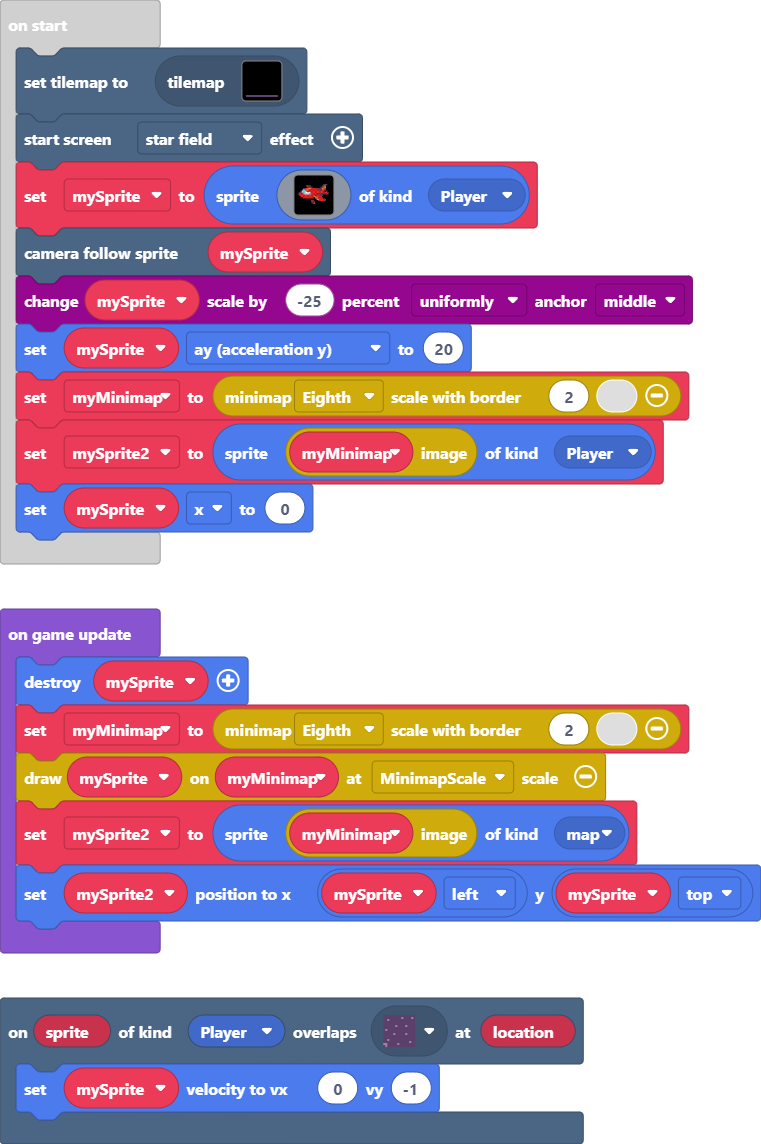
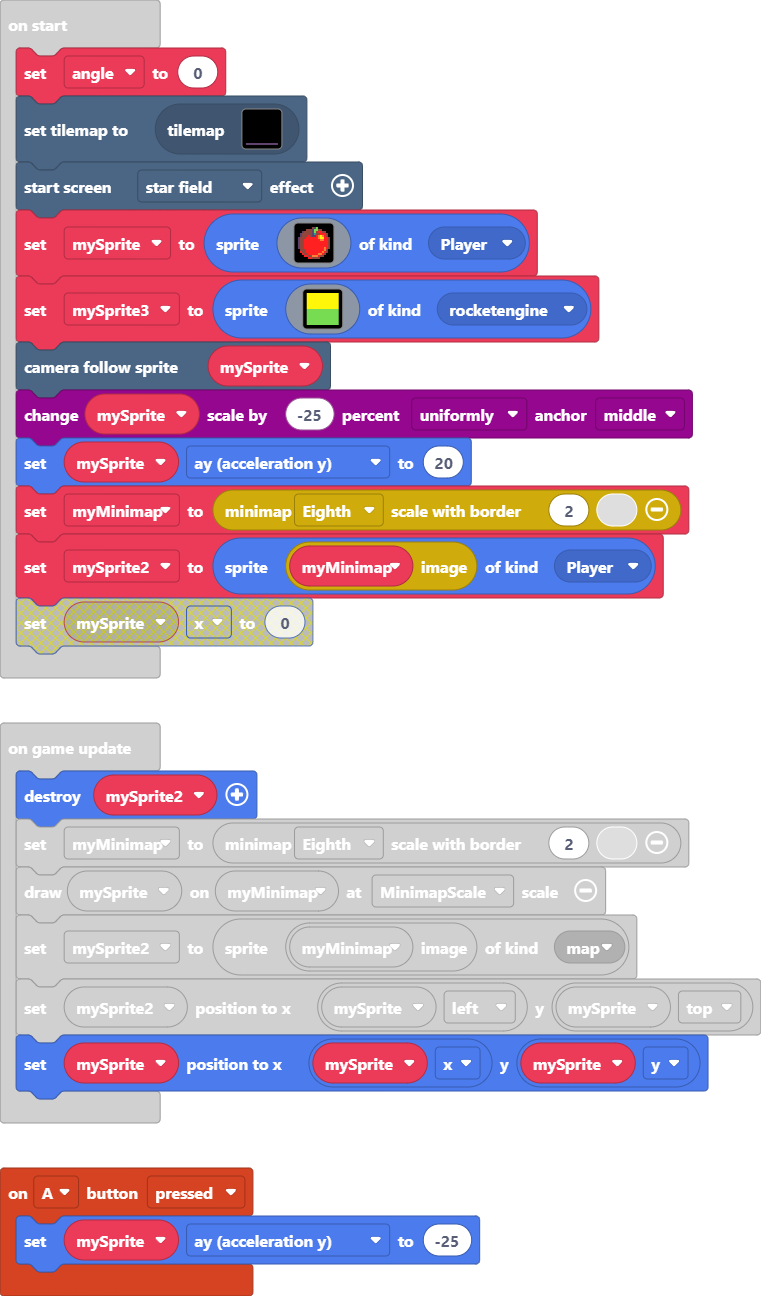
working on map and engine

diff --git a/main.ts b/main.ts
@@ -1,40 +1,49 @@
 namespace SpriteKind {
     export const map = SpriteKind.create()
+    export const rocketengine = SpriteKind.create()
 }
 scene.onOverlapTile(SpriteKind.Player, sprites.dungeon.darkGroundNorthEast1, function (sprite, location) {
     mySprite.setVelocity(0, -1)
 })
+controller.A.onEvent(ControllerButtonEvent.Pressed, function () {
+    mySprite.ay = -25
+})
 let mySprite: Sprite = null
+let angle = 0
 tiles.setCurrentTilemap(tilemap`level1`)
 effects.starField.startScreenEffect()
 mySprite = sprites.create(img`
-    ....ffffff.........ccc..
-    ....ff22ccf.......cc4f..
-    .....ffccccfff...cc44f..
-    ....cc24442222cccc442f..
-    ...c9b4422222222cc422f..
-    ..c999b2222222222222fc..
-    .c2b99111b222222222c22c.
-    c222b111992222ccccccc22f
-    f222222222222c222ccfffff
-    .f2222222222442222f.....
-    ..ff2222222cf442222f....
-    ....ffffffffff442222c...
-    .........f2cfffc2222c...
-    .........fcc2ffffffff...
-    ..........fc2ffff.......
-    ...........fffff........
+    . . . . . . . e c 7 . . . . . . 
+    . . . . e e e c 7 7 e e . . . . 
+    . . c e e e e c 7 e 2 2 e e . . 
+    . c e e e e e c 6 e e 2 2 2 e . 
+    . c e e e 2 e c c 2 4 5 4 2 e . 
+    c e e e 2 2 2 2 2 2 4 5 5 2 2 e 
+    c e e 2 2 2 2 2 2 2 2 4 4 2 2 e 
+    c e e 2 2 2 2 2 2 2 2 2 2 2 2 e 
+    c e e 2 2 2 2 2 2 2 2 2 2 2 2 e 
+    c e e 2 2 2 2 2 2 2 2 2 2 2 2 e 
+    c e e 2 2 2 2 2 2 2 2 2 2 4 2 e 
+    . e e e 2 2 2 2 2 2 2 2 2 4 e . 
+    . 2 e e 2 2 2 2 2 2 2 2 4 2 e . 
+    . . 2 e e 2 2 2 2 2 4 4 2 e . . 
+    . . . 2 2 e e 4 4 4 2 e e . . . 
+    . . . . . 2 2 e e e e . . . . . 
     `, SpriteKind.Player)
+let mySprite3 = sprites.create(img`
+    5 5 
+    7 7 
+    `, SpriteKind.rocketengine)
 scene.cameraFollowSprite(mySprite)
 scaling.scaleByPercent(mySprite, -25, ScaleDirection.Uniformly, ScaleAnchor.Middle)
 mySprite.ay = 20
 let myMinimap = minimap.minimap(MinimapScale.Eighth, 2, 0)
 let mySprite2 = sprites.create(minimap.getImage(myMinimap), SpriteKind.Player)
-mySprite.x = 0
 game.onUpdate(function () {
-    mySprite.destroy()
+    mySprite2.destroy()
     myMinimap = minimap.minimap(MinimapScale.Eighth, 2, 0)
     minimap.includeSprite(myMinimap, mySprite, MinimapSpriteScale.MinimapScale)
     mySprite2 = sprites.create(minimap.getImage(myMinimap), SpriteKind.map)
     mySprite2.setPosition(mySprite.left, mySprite.top)
+    mySprite.setPosition(mySprite.x, mySprite.y)
 })
